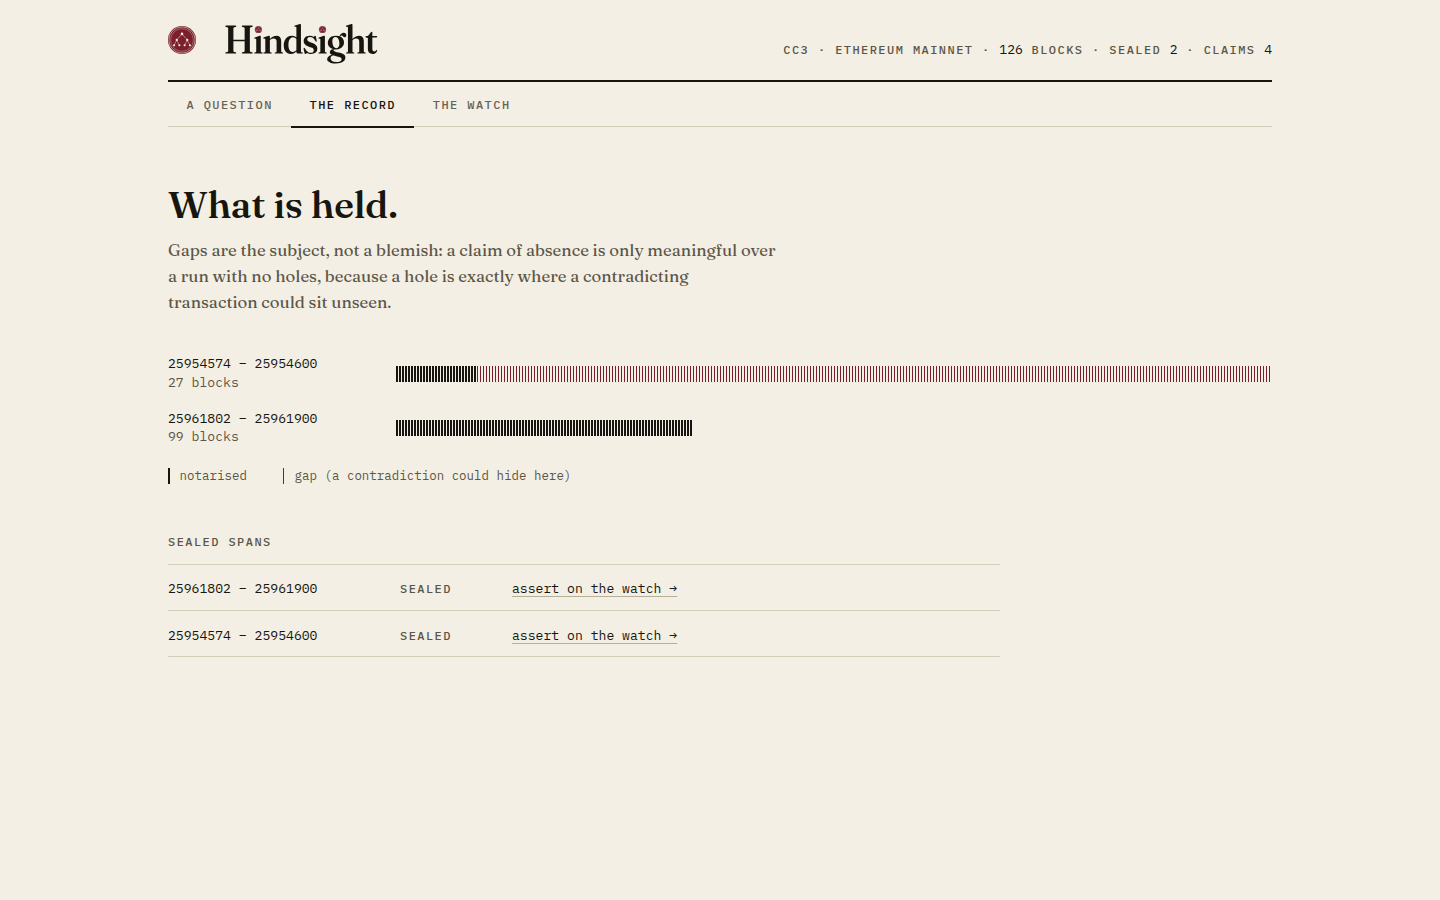
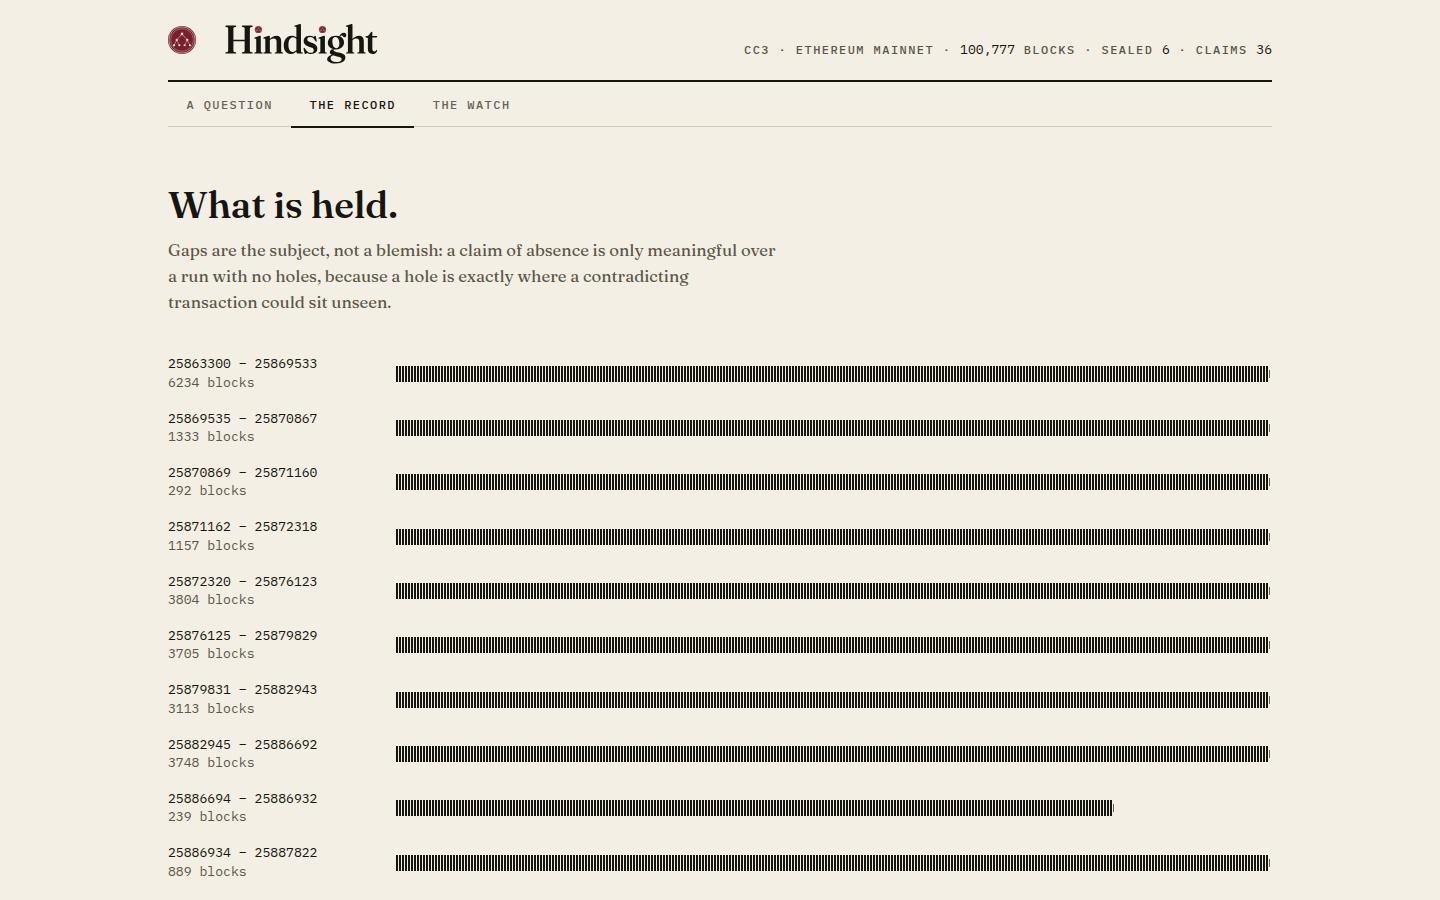
feat(web): show the empty blocks, and say 100,777
The record page derived coverage from BlocksMirrored events and drew the archive as one unbroken
100,801-block run -- directly under a lead sentence about how a hole is exactly where a
contradiction could hide. Events cannot see that a retained root of zero, an empty Ethereum block,
reads as absent to the contract and cannot be sealed across. A judge who tried would have hit
GapInSpan.

measure.ts now records the 24 heights, CI checks them, and the strip splits every run at them with
a third tick kind: neither ink nor wax, because an empty block is neither held nor a hiding place.
The break is always drawn, however long the run before it; the virtualisation used to squeeze it
to nothing. The dateline subtracts the measured count so the site says the same number as the
README and CLAIMS.md.

The --check comparison now deep-compares arrays; a reference comparison would have flagged the new
list stale on every run.

diff --git a/web/src/record/CoverageStrip.tsx b/web/src/record/CoverageStrip.tsx
@@ -2,7 +2,15 @@ import { useEffect, useRef, useState } from 'react';
 import gsap from 'gsap';
 import { prefersReducedMotion } from '../shared/motion';
 
-export type CoverageRun = { from: number; to: number; ticks: number; gapAfter: number };
+/**
+ * What follows a run. A `gap` is a height the archive does not hold -- exactly where a contradicting
+ * transaction could sit unseen. An `empty` break is different in kind: an Ethereum block with no
+ * transactions, whose root genuinely is zero and therefore reads as absent to the contract. Nothing
+ * can hide in it, but nothing can be sealed across it either, and drawing it as a gap would be a lie
+ * in the other direction.
+ */
+export type BreakKind = 'gap' | 'empty';
+export type CoverageRun = { from: number; to: number; ticks: number; gapAfter: number; breakKind?: BreakKind };
 
 const PITCH = 3; // a 2px tick and a 1px gap (§11.1)
 
@@ -26,8 +34,12 @@ function Row({ run }: { run: CoverageRun }) {
     return () => ro.disconnect();
   }, []);
 
-  const inkShown = Math.min(run.ticks, capacity);
-  const gapShown = Math.max(0, Math.min(run.gapAfter, capacity - inkShown));
+  // The break after a run is the thing the strip exists to show, so it is never squeezed out by
+  // the ink before it. An empty block is exactly one tick; a real gap gets up to a tenth of the
+  // row so its size registers without the ink vanishing.
+  const breakWanted = run.gapAfter === 0 ? 0 : run.breakKind === 'empty' ? 1 : Math.min(run.gapAfter, Math.max(1, Math.floor(capacity / 10)));
+  const inkShown = Math.min(run.ticks, Math.max(1, capacity - breakWanted));
+  const gapShown = Math.max(0, Math.min(breakWanted, capacity - inkShown));
 
   useEffect(() => {
     const el = strip.current;
@@ -68,13 +80,24 @@ function Row({ run }: { run: CoverageRun }) {
         ref={strip}
         className="cov-strip"
         role="img"
-        aria-label={`blocks ${run.from} to ${run.to} notarised${run.gapAfter > 0 ? `, then ${run.gapAfter} blocks not notarised` : ''}`}
+        aria-label={
+          `blocks ${run.from} to ${run.to} notarised` +
+          (run.gapAfter > 0
+            ? run.breakKind === 'empty'
+              ? `, then block ${run.to + 1}, an empty Ethereum block`
+              : `, then ${run.gapAfter} blocks not notarised`
+            : '')
+        }
       >
         {Array.from({ length: inkShown }, (_, i) => (
           <i key={`r${i}`} className="tick tick--run" title={String(run.from + i)} />
         ))}
         {Array.from({ length: gapShown }, (_, i) => (
-          <i key={`g${i}`} className="tick tick--gap" title={String(run.to + 1 + i)} />
+          <i
+            key={`g${i}`}
+            className={run.breakKind === 'empty' ? 'tick tick--empty' : 'tick tick--gap'}
+            title={run.breakKind === 'empty' ? `${run.to + 1 + i} — empty block, no transactions` : String(run.to + 1 + i)}
+          />
         ))}
       </div>
     </div>

diff --git a/web/src/record/Record.tsx b/web/src/record/Record.tsx
@@ -35,12 +35,33 @@ export function Record({ onTab }: { onTab: (t: TabId) => void }) {
         if (last && iv.from <= last.to + 1) last.to = Math.max(last.to, iv.to);
         else merged.push({ ...iv });
       }
-      const runs: CoverageRun[] = merged.map((r, i) => ({
-        from: r.from,
-        to: r.to,
-        ticks: r.to - r.from + 1,
-        gapAfter: i < merged.length - 1 ? merged[i + 1].from - r.to - 1 : 0,
-      }));
+      // Events say what was retained. They cannot see that a retained root of zero -- an empty
+      // Ethereum block -- reads as absent to `isMirrored` and cannot be sealed across. Those
+      // heights are measured off-chain by `worker/src/measure.ts`, checked by CI, and split in here
+      // so the strip shows the archive as it can actually be used rather than as one unbroken run.
+      const { EMPTY_BLOCK_HEIGHTS } = await import('../lib/chain');
+      const empties = [...EMPTY_BLOCK_HEIGHTS].sort((a, b) => a - b);
+      const pieces: { from: number; to: number; breakKind?: 'gap' | 'empty' }[] = [];
+      for (const r of merged) {
+        let from = r.from;
+        for (const e of empties) {
+          if (e < from || e > r.to) continue;
+          if (e > from) pieces.push({ from, to: e - 1, breakKind: 'empty' });
+          from = e + 1;
+        }
+        if (from <= r.to) pieces.push({ from, to: r.to });
+      }
+      const runs: CoverageRun[] = pieces.map((r, i) => {
+        const next = pieces[i + 1];
+        const gapAfter = next ? next.from - r.to - 1 : 0;
+        return {
+          from: r.from,
+          to: r.to,
+          ticks: r.to - r.from + 1,
+          gapAfter,
+          breakKind: gapAfter > 0 ? (r.breakKind ?? 'gap') : undefined,
+        };
+      });
 
       const spanCount = Number(await m.spanCount());
       const spans: SealedSpan[] = [];
@@ -87,6 +108,7 @@ export function Record({ onTab }: { onTab: (t: TabId) => void }) {
           <p className="legend">
             <span><i className="tick is-inked" aria-hidden="true" /> notarised</span>
             <span><i className="tick tick--gap" aria-hidden="true" /> gap (a contradiction could hide here)</span>
+            <span><i className="tick tick--empty" aria-hidden="true" /> empty block (nothing to hide; nothing to seal across)</span>
           </p>
 
           <h2 className="t-ui section-head">Sealed spans</h2>

diff --git a/worker/src/measure.ts b/worker/src/measure.ts
@@ -55,6 +55,7 @@ async function main() {
   // Walk the archive to separate real coverage from the empty-block sentinel collision, and to
   // find the longest range an absence claim could actually bind.
   const runs: { start: number; len: number }[] = [];
+  const emptyHeights: number[] = [];
   let cur = low;
   let acc = 0;
   let start = low;
@@ -64,6 +65,7 @@ async function main() {
     if (run === 0) {
       if (acc) runs.push({ start, len: acc });
       acc = 0;
+      emptyHeights.push(cur);
       cur++;
       start = cur;
       continue;
@@ -73,6 +75,7 @@ async function main() {
     if (run < maxWindow && cur <= high) {
       runs.push({ start, len: acc });
       acc = 0;
+      emptyHeights.push(cur);
       cur++;
       start = cur;
     }
@@ -103,6 +106,9 @@ async function main() {
     heightsRetained: retained,
     heightsAnswerable: answerable,
     emptyBlocksInRange: emptyBlocks,
+    // The heights themselves, so the interface can draw them as what they are rather than
+    // rendering the archive as one unbroken run it is not.
+    emptyBlockHeights: emptyHeights,
     archiveFrom: low,
     archiveTo: high,
     contiguousRuns: runs.length,
@@ -126,10 +132,15 @@ async function main() {
   for (const [k, v] of report) console.log(`  ${k.padEnd(42)} ${v}`);
 
   if (check) {
-    const stale = Object.entries(measured).filter(([k, v]) => d.measured?.[k] !== undefined && d.measured[k] !== v);
+    // Arrays are compared by content; a reference comparison would flag them stale every run.
+    const same = (a: unknown, b: unknown) => JSON.stringify(a) === JSON.stringify(b);
+    const stale = Object.entries(measured).filter(([k, v]) => d.measured?.[k] !== undefined && !same(d.measured[k], v));
     if (stale.length) {
       console.log('\nSTALE — deployments.json disagrees with the chain:');
-      for (const [k, v] of stale) console.log(`  ${k}: recorded ${d.measured[k]}, chain says ${v}`);
+      for (const [k, v] of stale) {
+        const show = (x: unknown) => (Array.isArray(x) ? `[${x.length} items]` : String(x));
+        console.log(`  ${k}: recorded ${show(d.measured[k])}, chain says ${show(v)}`);
+      }
       process.exit(1);
     }
     console.log('\nrecorded numbers agree with the chain.');

diff --git a/web/src/shell/useArchiveStats.ts b/web/src/shell/useArchiveStats.ts
@@ -24,14 +24,19 @@ export function useArchiveStats(refreshKey?: unknown): ArchiveStats {
     inFlight.current = true;
     last.current = now;
     try {
-      const { mirrorContract, registryContract, CHAIN_KEY_ETH_MAINNET } = await import('../lib/chain');
+      const { mirrorContract, registryContract, CHAIN_KEY_ETH_MAINNET, EMPTY_BLOCK_COUNT } = await import('../lib/chain');
       const [blocks, spans, claims] = await Promise.all([
         mirrorContract().mirroredBlocks(CHAIN_KEY_ETH_MAINNET),
         mirrorContract().spanCount(),
         registryContract().claimCount(),
       ]);
       everOk.current = true;
-      setStats({ status: 'ok', blocks: Number(blocks), spans: Number(spans), claims: Number(claims) });
+      // `mirroredBlocks` counts every retained root, including the empty Ethereum blocks whose
+      // root is genuinely zero and which the contract therefore cannot answer questions about.
+      // The dateline shows the answerable count, so the site says the same number as CLAIMS.md.
+      // The subtraction is the CI-checked figure from deployments.json, not a guess.
+      const answerable = Math.max(0, Number(blocks) - EMPTY_BLOCK_COUNT);
+      setStats({ status: 'ok', blocks: answerable, spans: Number(spans), claims: Number(claims) });
     } catch {
       // A failed refresh keeps the last honest reading; only a register never reached is offline.
       if (!everOk.current) setStats({ status: 'offline' });

diff --git a/web/src/lib/chain.ts b/web/src/lib/chain.ts
@@ -21,6 +21,14 @@ export const CHAIN_KEY_ETH_MAINNET = 3;
  *  scanning millions of empty blocks makes the public RPC refuse the request outright. */
 export const DEPLOY_BLOCK: number = (deployments as any).deployBlock ?? 0;
 
+/**
+ * Heights inside the archive whose transaction root is genuinely zero: empty Ethereum blocks. The
+ * contract cannot tell a stored zero from an absent one, so these read as not-mirrored forever.
+ * Measured by `worker/src/measure.ts` against the chain and checked by CI; never typed by hand.
+ */
+export const EMPTY_BLOCK_HEIGHTS: number[] = (deployments as any).measured?.emptyBlockHeights ?? [];
+export const EMPTY_BLOCK_COUNT: number = (deployments as any).measured?.emptyBlocksInRange ?? EMPTY_BLOCK_HEIGHTS.length;
+
 export const MIRROR_ADDRESS: string = deployments.contracts.EthereumMirror;
 // V2 binds a *list* of adjacent spans, so a claim can cover more than one 5,000-block seal.
 // The mirror is unchanged and still holds the whole archive; only the registry was redeployed.

diff --git a/web/src/styles.css b/web/src/styles.css
@@ -481,6 +481,10 @@ dl.facts dd .t-hash[title] { white-space: nowrap; word-break: normal; }
 .tick { flex: none; width: 2px; height: 16px; background: var(--rule); }
 .tick.is-inked { background: var(--ink); }
 .tick--gap { background: transparent; box-shadow: inset 1px 0 0 var(--wax); }
+/* An empty Ethereum block: a real height with nothing in it. Neither ink (nothing was retained
+   that can be asked about) nor wax (nothing can hide there). A hollow ink hairline says "there is
+   a block here" without claiming either of the other two things. */
+.tick--empty { background: transparent; box-shadow: inset 1px 0 0 var(--ink-faint); height: 8px; align-self: center; }
 @media (max-width: 639px) {
   .cov-row { grid-template-columns: minmax(0, 1fr); gap: 0.45rem; }
 }
